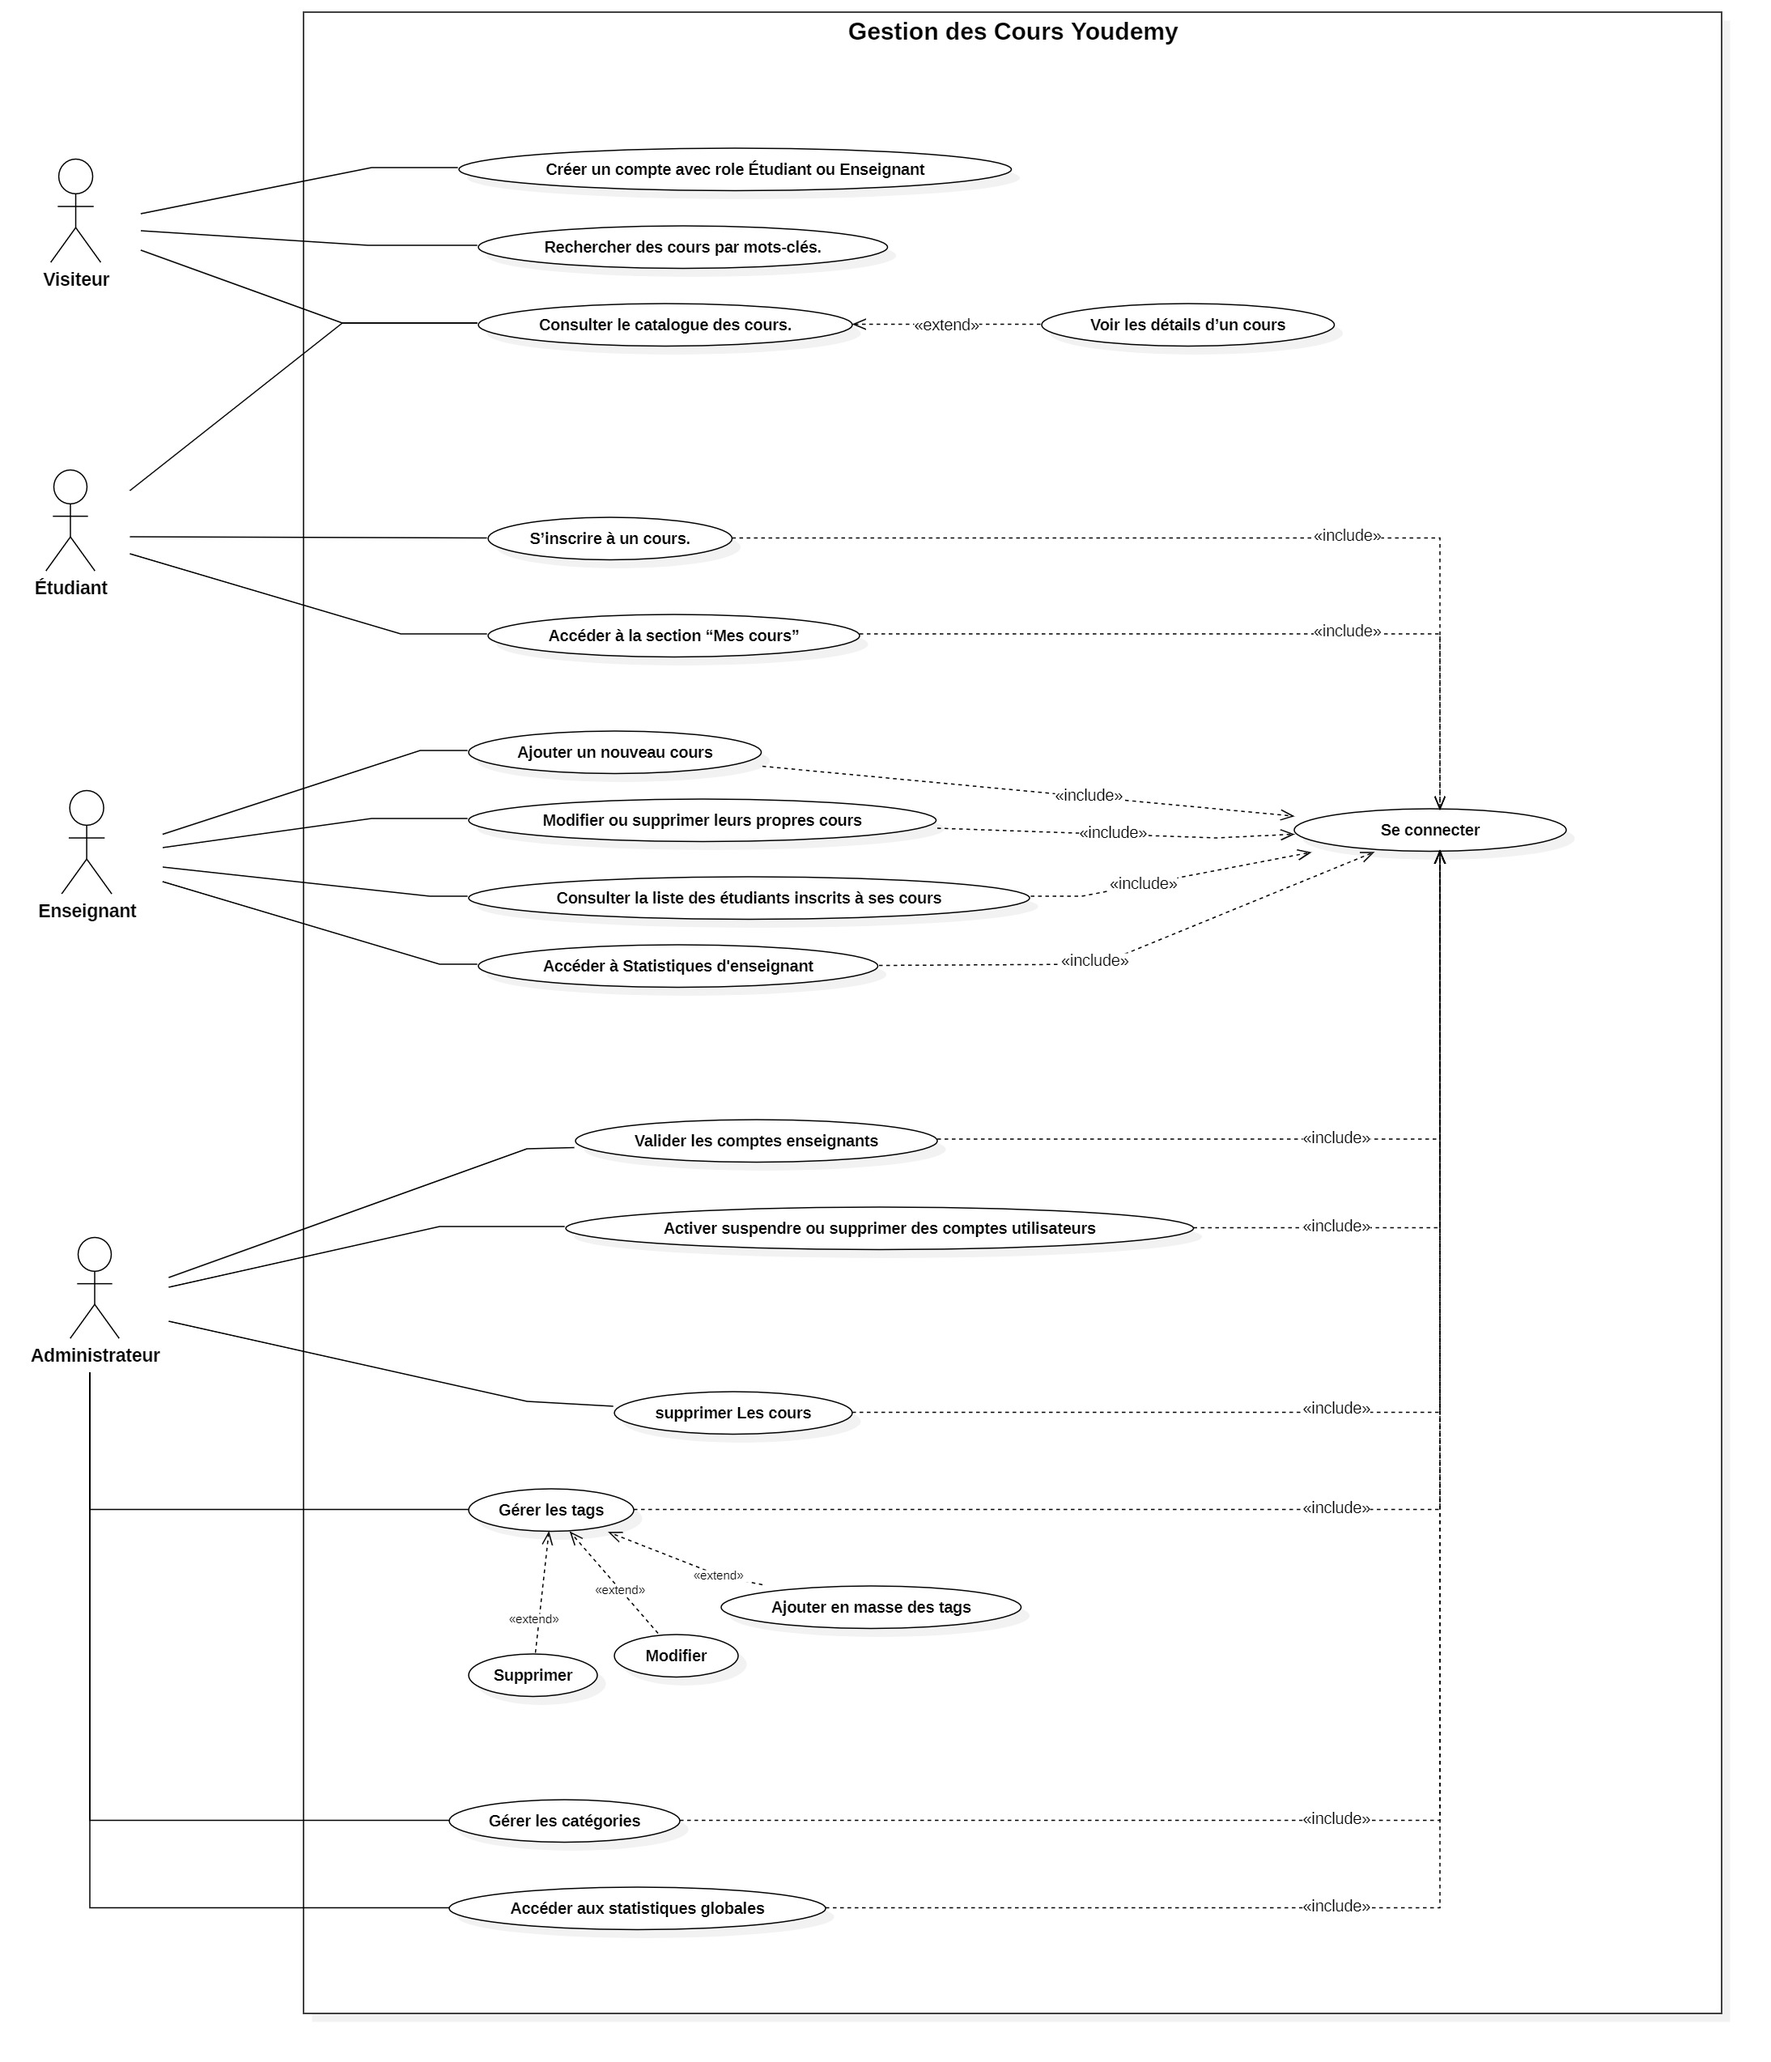
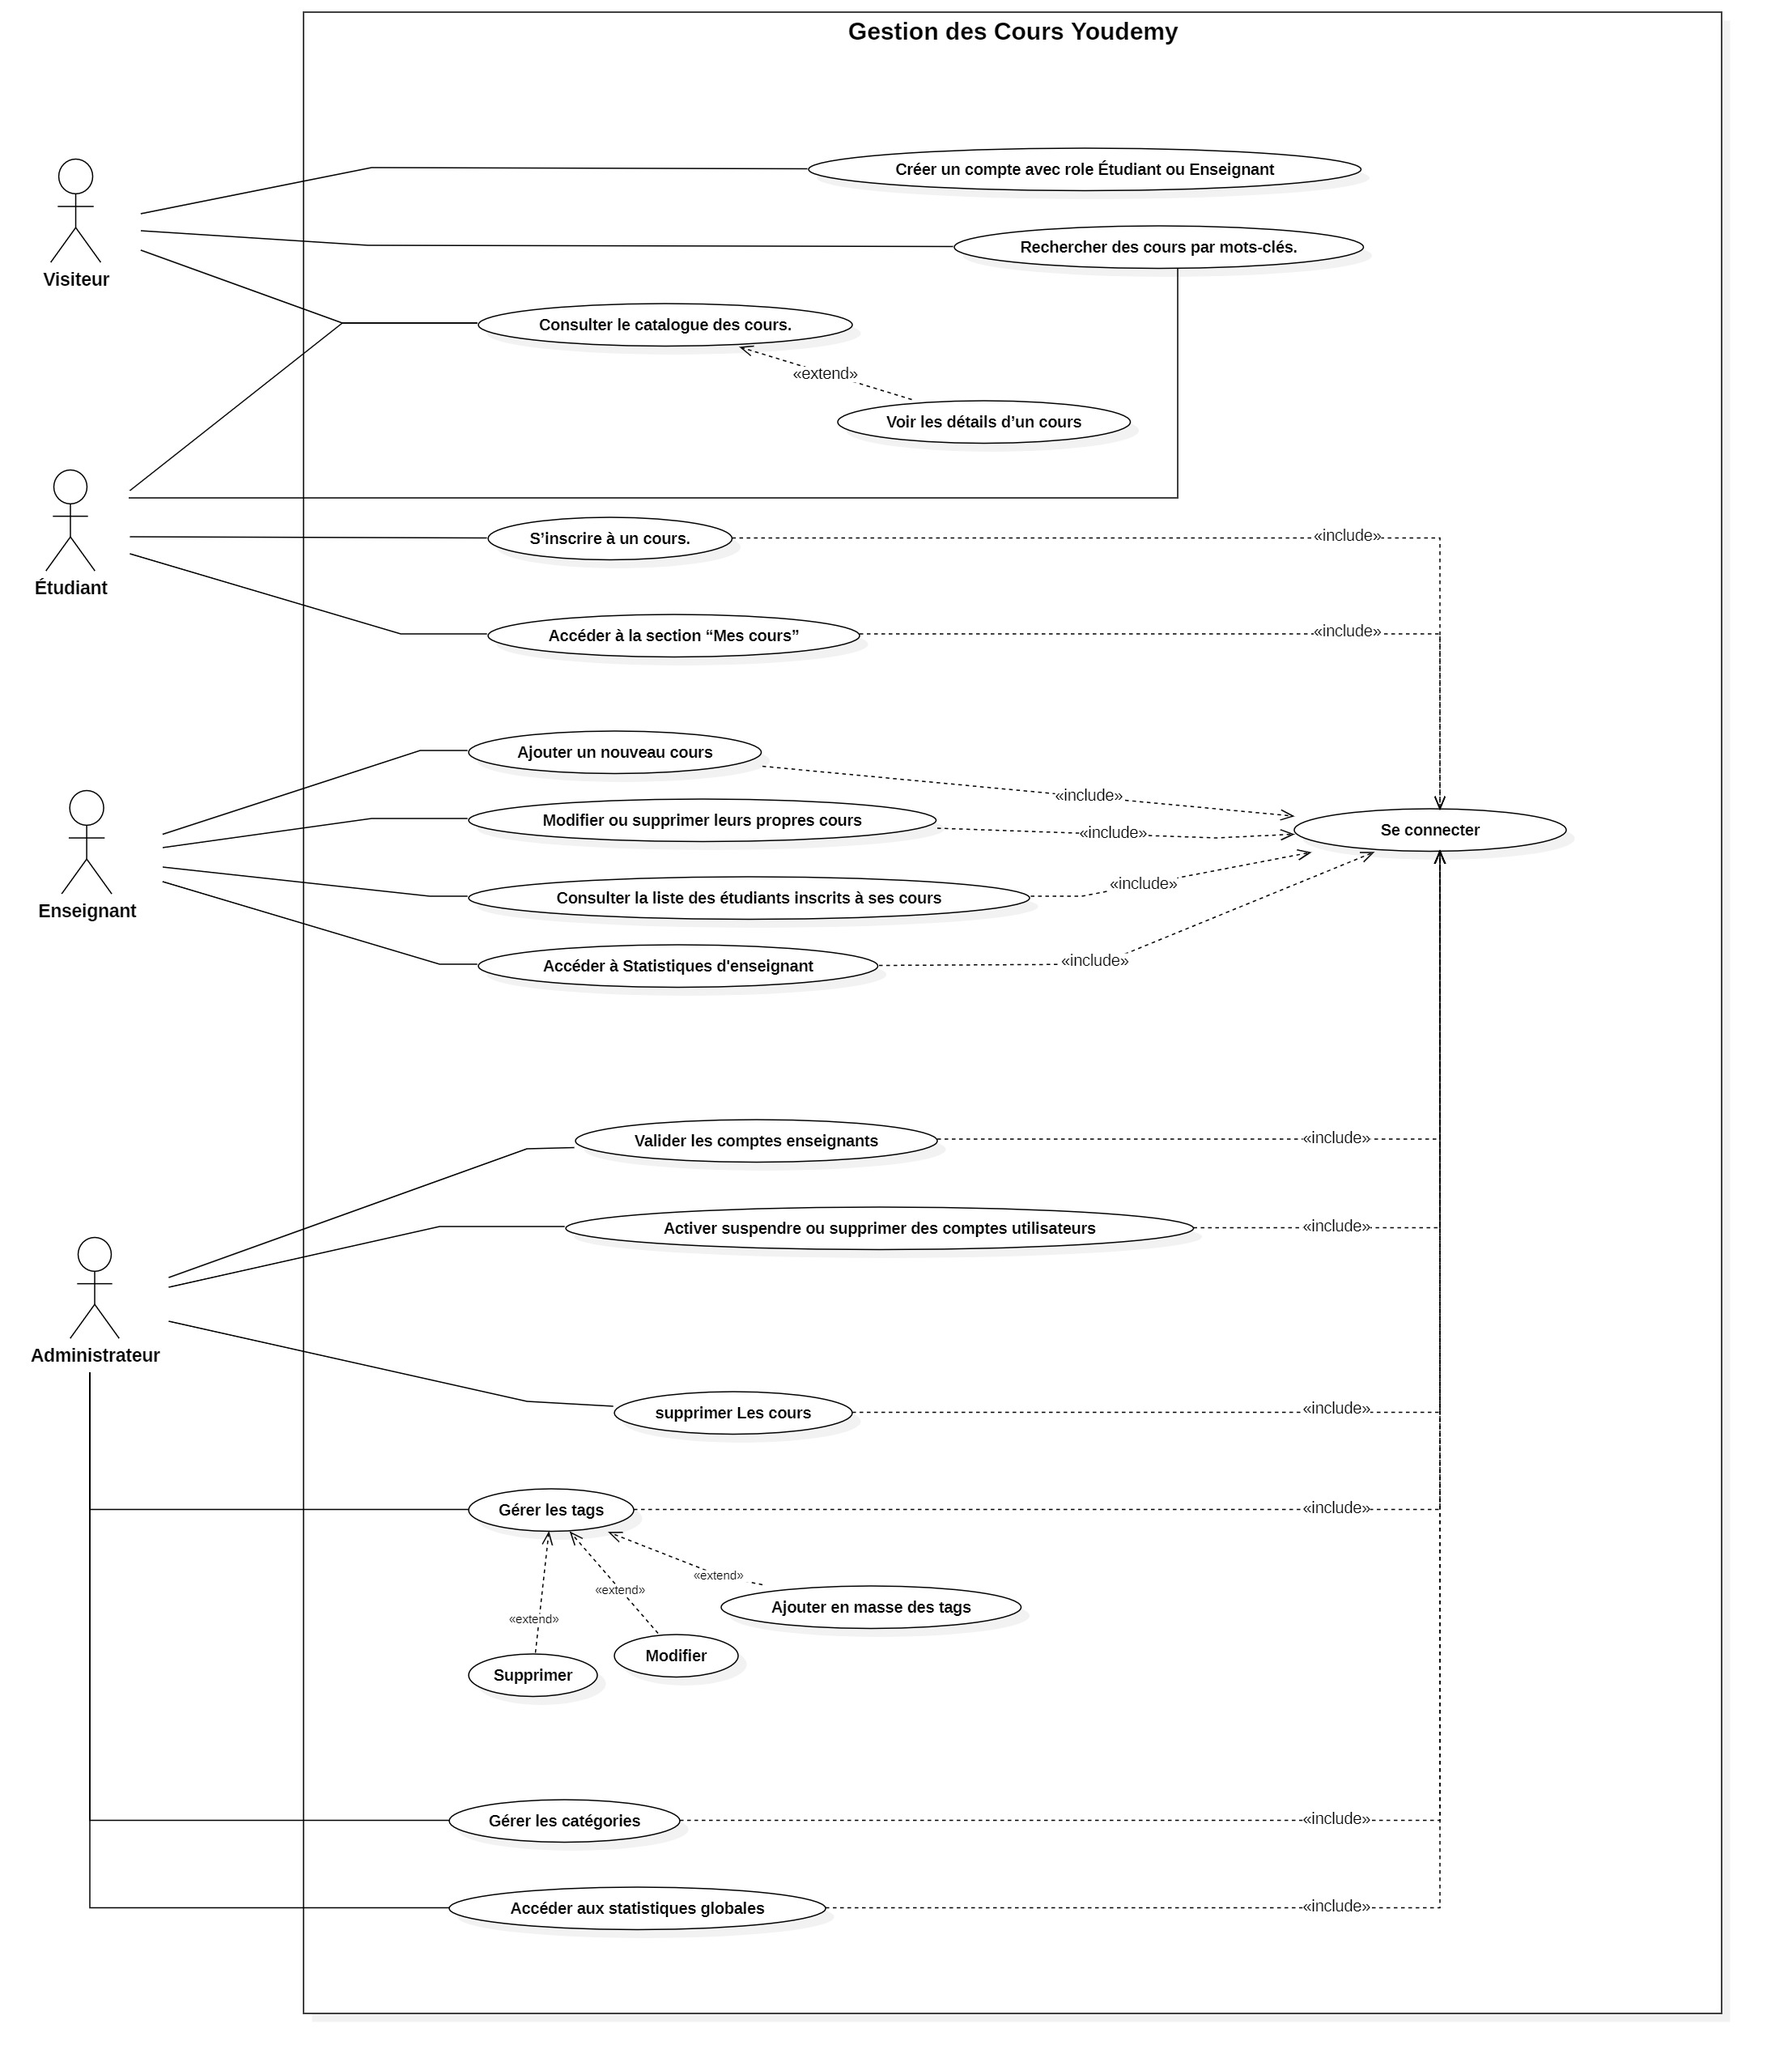
#4 Ajouter un page (s'inscrire et seconnecter) | #2 : modifer diagram de cas d'utilisation (modifer relation de etudiant)

Changed region(s): [[0.2797, 0.062, 0.7148, 0.1241], [0.4973, 0.1861, 0.6216, 0.2171], [0.6216, 0.1551, 0.7148, 0.1861]]

diff --git a/assets/css/login.css b/assets/css/login.css
@@ -1,0 +1,94 @@
+        :root {
+            --primary: #1E88E5;
+            --light-primary: #90CAF9;
+            --dark: #343a40;
+        }
+
+        body {
+            background: linear-gradient(rgba(30, 136, 229, 0.8), rgba(30, 136, 229, 0.8)), url('../img/header.jpg');
+            background-size: cover;
+            background-position: center;
+            min-height: 100vh;
+            display: flex;
+            align-items: center;
+        }
+
+        .login-container {
+            background: rgba(255, 255, 255, 0.95);
+            border-radius: 10px;
+            padding: 40px;
+            box-shadow: 0 0 20px rgba(0, 0, 0, 0.1);
+            max-width: 500px;
+            width: 90%;
+            margin: 0 auto;
+        }
+
+        .login-title {
+            color: var(--primary);
+            text-align: center;
+            margin-bottom: 30px;
+        }
+
+        .form-control {
+            border-radius: 5px;
+            padding: 12px;
+            margin-bottom: 20px;
+            border: 1px solid #ddd;
+        }
+
+        .form-control:focus {
+            border-color: var(--primary);
+            box-shadow: 0 0 0 0.2rem rgba(30, 136, 229, 0.25);
+        }
+
+        .btn-primary {
+            background-color: var(--primary);
+            border-color: var(--primary);
+            padding: 12px;
+            width: 100%;
+            font-weight: 600;
+            text-transform: uppercase;
+            letter-spacing: 1px;
+        }
+
+        .btn-primary:hover {
+            background-color: #1976D2;
+            border-color: #1976D2;
+        }
+
+        .social-login {
+            text-align: center;
+            margin-top: 20px;
+        }
+
+        .social-login a {
+            display: inline-block;
+            width: 40px;
+            height: 40px;
+            line-height: 40px;
+            border-radius: 50%;
+            background-color: #f8f9fa;
+            color: var(--dark);
+            margin: 0 5px;
+            transition: all 0.3s;
+        }
+
+        .social-login a:hover {
+            background-color: var(--primary);
+            color: white;
+        }
+
+        .register-link {
+            text-align: center;
+            margin-top: 20px;
+            color: var(--dark);
+        }
+
+        .register-link a {
+            color: var(--primary);
+            text-decoration: none;
+        }
+
+        .register-link a:hover {
+            text-decoration: underline;
+        }

diff --git a/pages/Sinscrire.php b/pages/Sinscrire.php
@@ -1,0 +1,170 @@
+<!DOCTYPE html>
+<html lang="en">
+
+<head>
+    <meta charset="utf-8">
+    <title>YouDemy - Register</title>
+    <meta content="width=device-width, initial-scale=1.0" name="viewport">
+
+    <!-- Favicon -->
+    <link href="../assets/img/ycd.png" rel="icon">
+
+    <!-- Google Web Fonts -->
+    <link rel="preconnect" href="https://fonts.gstatic.com">
+    <link
+        href="https://fonts.googleapis.com/css2?family=Jost:wght@500;600;700&family=Open+Sans:wght@400;600&display=swap"
+        rel="stylesheet">
+
+    <!-- Font Awesome -->
+    <link href="https://cdnjs.cloudflare.com/ajax/libs/font-awesome/5.10.0/css/all.min.css" rel="stylesheet">
+
+    <!-- Bootstrap CSS -->
+    <link href="https://stackpath.bootstrapcdn.com/bootstrap/4.4.1/css/bootstrap.min.css" rel="stylesheet">
+
+    <style>
+        :root {
+            --primary: #1E88E5;
+            --light-primary: #90CAF9;
+            --dark: #343a40;
+        }
+
+        body {
+            background: linear-gradient(rgba(30, 136, 229, 0.8), rgba(30, 136, 229, 0.8)), url('../assets/img/header.jpg');
+            background-size: cover;
+            background-position: center;
+            min-height: 100vh;
+            display: flex;
+            align-items: center;
+        }
+
+        .login-container {
+            background: rgba(255, 255, 255, 0.95);
+            border-radius: 10px;
+            padding: 40px;
+            box-shadow: 0 0 20px rgba(0, 0, 0, 0.1);
+            max-width: 500px;
+            width: 90%;
+            margin: 0 auto;
+        }
+
+        .login-title {
+            color: var(--primary);
+            text-align: center;
+            margin-bottom: 30px;
+        }
+
+        .form-control {
+            border-radius: 5px;
+            padding: 12px;
+            margin-bottom: 20px;
+            border: 1px solid #ddd;
+        }
+
+        .form-control:focus {
+            border-color: var(--primary);
+            box-shadow: 0 0 0 0.2rem rgba(30, 136, 229, 0.25);
+        }
+
+        .btn-primary {
+            background-color: var(--primary);
+            border-color: var(--primary);
+            padding: 12px;
+            width: 100%;
+            font-weight: 600;
+            text-transform: uppercase;
+            letter-spacing: 1px;
+        }
+
+        .btn-primary:hover {
+            background-color: #1976D2;
+            border-color: #1976D2;
+        }
+
+        .social-login {
+            text-align: center;
+            margin-top: 20px;
+        }
+
+        .social-login a {
+            display: inline-block;
+            width: 40px;
+            height: 40px;
+            line-height: 40px;
+            border-radius: 50%;
+            background-color: #f8f9fa;
+            color: var(--dark);
+            margin: 0 5px;
+            transition: all 0.3s;
+        }
+
+        .social-login a:hover {
+            background-color: var(--primary);
+            color: white;
+        }
+
+        .login-link {
+            text-align: center;
+            margin-top: 20px;
+            color: var(--dark);
+        }
+
+        .login-link a {
+            color: var(--primary);
+            text-decoration: none;
+        }
+
+        .login-link a:hover {
+            text-decoration: underline;
+        }
+
+        .invalid-feedback {
+            display: none;
+            color: #dc3545;
+            font-size: 80%;
+            margin-top: -15px;
+            margin-bottom: 15px;
+        }
+    </style>
+</head>
+
+<body>
+    <div class="container">
+        <div class="login-container">
+            <div class="text-center mb-4">
+                <a href="../index.php" style="text-decoration: none;">
+                    <h1 class="login-title m-0 text-uppercase"><i class="fa fa-book-reader mr-3"></i>YouDemy</h1>
+                </a>
+                <p class="text-muted my-3">Cr&eacute;ez votre compte pour commencer &agrave; apprendre</p>
+            </div>
+            <form id="registerForm" novalidate>
+                <div class="form-group">
+                    <input type="text" class="form-control" id="name" placeholder="Nom complet" required>
+                    <div class="invalid-feedback">Veuillez entrer votre nom complet</div>
+                </div>
+                <div class="form-group">
+                    <input type="email" class="form-control" id="email" placeholder="Adresse e-mail" required>
+                    <div class="invalid-feedback">Veuillez entrer une adresse e-mail valide</div>
+                </div>
+                <div class="form-group">
+                    <input type="password" class="form-control" id="password" placeholder="Mot de passe" required>
+                    <div class="invalid-feedback">Le mot de passe doit contenir au moins 6 caract&egrave;res</div>
+                </div>
+                <div class="form-group">
+                    <input type="password" class="form-control" id="confirmPassword"
+                        placeholder="Confirmez le mot de passe" required>
+                </div>
+                <button type="submit" class="btn btn-primary">S'inscrire</button>
+            </form>
+            <div class="login-link">
+                <p>D&eacute;j&agrave; un compte ? <a href="./seConnecter.php">Connexion</a></p>
+            </div>
+        </div>
+    </div>
+
+    <!-- JavaScript Libraries -->
+    <script src="https://code.jquery.com/jquery-3.4.1.min.js"></script>
+    <script src="https://stackpath.bootstrapcdn.com/bootstrap/4.4.1/js/bootstrap.bundle.min.js"></script>
+
+</body>
+
+</html>

diff --git a/pages/seConnecter.php b/pages/seConnecter.php
@@ -1,0 +1,57 @@
+<!DOCTYPE html>
+<html lang="en">
+
+<head>
+    <meta charset="utf-8">
+    <title>YouDemy - Login</title>
+    <meta content="width=device-width, initial-scale=1.0" name="viewport">
+
+    <!-- Favicon -->
+    <link href="../assets/img/ycd.png" rel="icon">
+
+    <!-- Google Web Fonts -->
+    <link rel="preconnect" href="https://fonts.gstatic.com">
+    <link
+        href="https://fonts.googleapis.com/css2?family=Jost:wght@500;600;700&family=Open+Sans:wght@400;600&display=swap"
+        rel="stylesheet">
+
+    <!-- Font Awesome -->
+    <link href="https://cdnjs.cloudflare.com/ajax/libs/font-awesome/5.10.0/css/all.min.css" rel="stylesheet">
+
+    <!-- Bootstrap CSS -->
+    <link href="https://stackpath.bootstrapcdn.com/bootstrap/4.4.1/css/bootstrap.min.css" rel="stylesheet">
+    <link rel="stylesheet" href="../assets/css/login.css">
+
+
+</head>
+
+<body>
+    <div class="container">
+        <div class="login-container">
+            <div class="text-center mb-4">
+                <a href="../index.php" style="text-decoration: none;">
+                    <h1 class="login-title m-0 text-uppercase"><i class="fa fa-book-reader mr-3"></i>YouDemy</h1>
+                </a>
+                <p class="text-muted my-3">Bienvenue ! Veuillez vous connecter &agrave; votre compte.</p>
+            </div>
+            <form id="loginForm">
+                <div class="form-group">
+                    <input type="email" class="form-control" id="email" placeholder="Adresse e-mail" required>
+                </div>
+                <div class="form-group">
+                    <input type="password" class="form-control" id="password" placeholder="Mot de passe" required>
+                </div>
+                <button type="submit" class="btn btn-primary">Connexion</button>
+            </form>
+            <div class="register-link">
+                <p>Vous n'avez pas de compte ? <a href="./Sinscrire.php">Inscrivez-vous maintenant</a></p>
+            </div>
+        </div>
+    </div>
+
+    <!-- JavaScript Libraries -->
+    <script src="https://code.jquery.com/jquery-3.4.1.min.js"></script>
+    <script src="https://stackpath.bootstrapcdn.com/bootstrap/4.4.1/js/bootstrap.bundle.min.js"></script>
+</body>
+
+</html>
